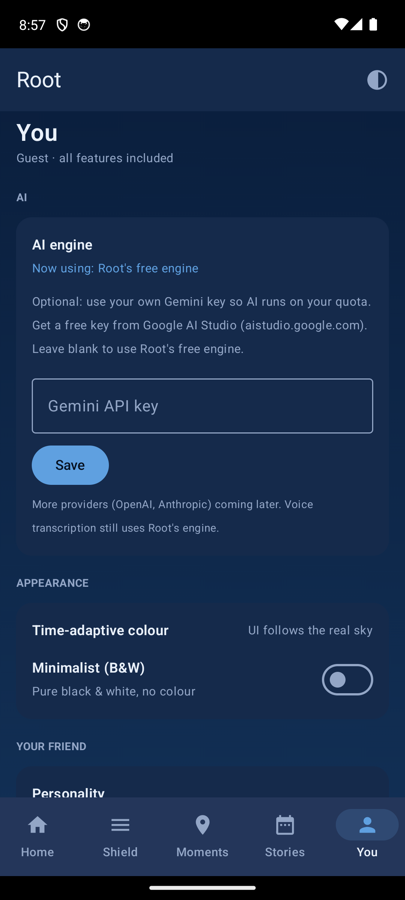
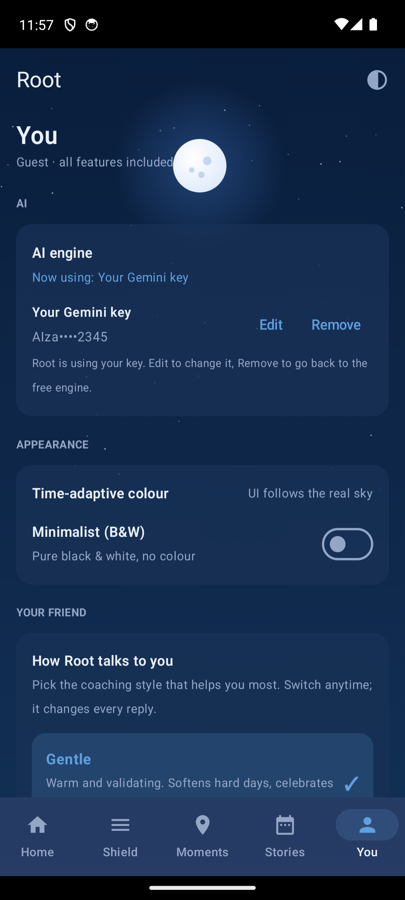
Glass UI + full-bleed sky, Gemini saved-key row, and useful personalities (v0.3.4)
UI:
- Sky is now full-bleed behind a transparent Scaffold + glassy translucent bars, so the
  sun/moon arc and stars fill the whole background on every screen
- Translucent (frosted) card + dialog surfaces = glassmorphism; modals show the sky through
- Kept smooth tab fade transitions

Gemini key UX:
- After Save the input collapses to a saved row showing the masked key (AIza****1234) with
  Edit and Remove; editing/first-time shows the field + Save (disabled until non-blank) + Cancel

Personality:
- Rewrote the two styles into genuinely distinct coaching modes in the system prompt
  (Gentle = warm/validating; Tough-love = names excuses, asks for one commitment, accountable)
  and a tone-matched opener
- You screen now presents each style as a selectable card with a clear 'what you get' benefit

Refreshed home/you screenshots. Tests green; public APK verified key-free (proxy only).

diff --git a/app/src/main/java/com/rootapp/ui/you/YouScreen.kt b/app/src/main/java/com/rootapp/ui/you/YouScreen.kt
@@ -58,7 +58,9 @@ fun YouScreen(
     val hasOverlay = remember(refresh) { ShieldPermissions.hasOverlay(context) }
 
     // AI engine state
-    var geminiKey by remember { mutableStateOf(settings.geminiApiKey) }
+    var savedKey by remember { mutableStateOf(settings.geminiApiKey) }
+    var draftKey by remember { mutableStateOf(settings.geminiApiKey) }
+    var editingKey by remember { mutableStateOf(settings.geminiApiKey.isBlank()) }
     var providerLabel by remember { mutableStateOf(AppModule.activeProviderLabel()) }
 
     Column(
@@ -77,39 +79,62 @@ fun YouScreen(
                 Text("AI engine", fontSize = 14.sp, fontWeight = FontWeight.SemiBold, color = palette.onSurface)
                 Text("Now using: $providerLabel", fontSize = 12.sp, color = palette.accent)
                 Spacer(Modifier.height(10.dp))
-                Text(
-                    "Optional: use your own Gemini key so AI runs on your quota. Get a free key from " +
-                        "Google AI Studio (aistudio.google.com). Leave blank to use Root's free engine.",
-                    fontSize = 12.sp, color = palette.dim,
-                )
-                Spacer(Modifier.height(10.dp))
-                OutlinedTextField(
-                    value = geminiKey,
-                    onValueChange = { geminiKey = it },
-                    label = { Text("Gemini API key") },
-                    singleLine = true,
-                    modifier = Modifier.fillMaxWidth(),
-                )
-                Spacer(Modifier.height(8.dp))
-                Row(horizontalArrangement = Arrangement.spacedBy(8.dp)) {
-                    Button(onClick = {
-                        settings.geminiApiKey = geminiKey
-                        geminiKey = settings.geminiApiKey
-                        providerLabel = AppModule.activeProviderLabel()
-                        Toast.makeText(context, "AI engine updated", Toast.LENGTH_SHORT).show()
-                    }) { Text("Save") }
-                    if (geminiKey.isNotBlank()) {
+                if (!editingKey && savedKey.isNotBlank()) {
+                    // Saved state: show the masked key on its own line with edit / remove.
+                    Row(verticalAlignment = Alignment.CenterVertically) {
+                        Column(Modifier.weight(1f)) {
+                            Text("Your Gemini key", fontSize = 13.sp, fontWeight = FontWeight.SemiBold, color = palette.onSurface)
+                            Text(maskKey(savedKey), fontSize = 13.sp, color = palette.dim)
+                        }
+                        TextButton(onClick = { draftKey = savedKey; editingKey = true }) { Text("Edit", color = palette.accent) }
                         TextButton(onClick = {
-                            geminiKey = ""
-                            settings.geminiApiKey = ""
+                            savedKey = ""; draftKey = ""; settings.geminiApiKey = ""
+                            editingKey = true
                             providerLabel = AppModule.activeProviderLabel()
-                            Toast.makeText(context, "Back to Root's free engine", Toast.LENGTH_SHORT).show()
-                        }) { Text("Clear", color = palette.accent) }
+                            Toast.makeText(context, "Back to Root's engine", Toast.LENGTH_SHORT).show()
+                        }) { Text("Remove", color = palette.accent) }
                     }
+                    Spacer(Modifier.height(2.dp))
+                    Text("Root is using your key. Edit to change it, Remove to go back to the free engine.",
+                        fontSize = 11.sp, color = palette.dim)
+                } else {
+                    // Editing / first-time state: the input + Save (and Cancel if a key exists).
+                    Text(
+                        "Optional: use your own Gemini key so AI runs on your quota. Get a free key from " +
+                            "Google AI Studio (aistudio.google.com).",
+                        fontSize = 12.sp, color = palette.dim,
+                    )
+                    Spacer(Modifier.height(10.dp))
+                    OutlinedTextField(
+                        value = draftKey,
+                        onValueChange = { draftKey = it },
+                        label = { Text("Gemini API key") },
+                        singleLine = true,
+                        modifier = Modifier.fillMaxWidth(),
+                    )
+                    Spacer(Modifier.height(8.dp))
+                    Row(horizontalArrangement = Arrangement.spacedBy(8.dp)) {
+                        Button(
+                            onClick = {
+                                settings.geminiApiKey = draftKey.trim()
+                                savedKey = settings.geminiApiKey
+                                draftKey = savedKey
+                                providerLabel = AppModule.activeProviderLabel()
+                                editingKey = savedKey.isBlank() // collapse to the saved row when a key is set
+                                Toast.makeText(context, "AI engine updated", Toast.LENGTH_SHORT).show()
+                            },
+                            enabled = draftKey.isNotBlank(),
+                        ) { Text("Save") }
+                        if (savedKey.isNotBlank()) {
+                            TextButton(onClick = { draftKey = savedKey; editingKey = false }) {
+                                Text("Cancel", color = palette.accent)
+                            }
+                        }
+                    }
+                    Spacer(Modifier.height(4.dp))
+                    Text("More providers (OpenAI, Anthropic) coming later. Voice transcription still uses Root's engine.",
+                        fontSize = 11.sp, color = palette.dim)
                 }
-                Spacer(Modifier.height(4.dp))
-                Text("More providers (OpenAI, Anthropic) coming later. Voice transcription still uses Root's engine.",
-                    fontSize = 11.sp, color = palette.dim)
             }
         }
         Spacer(Modifier.height(16.dp))
@@ -137,18 +162,21 @@ fun YouScreen(
         Card(shape = RoundedCornerShape(16.dp), modifier = Modifier.fillMaxWidth(),
             colors = CardDefaults.cardColors(containerColor = palette.surface)) {
             Column(Modifier.padding(16.dp)) {
-                Text("Personality", fontSize = 14.sp, fontWeight = FontWeight.SemiBold, color = palette.onSurface)
-                Text("How Root talks to you in sessions. Gentle = warm and soft. Tough-love = direct and honest.",
+                Text("How Root talks to you", fontSize = 14.sp, fontWeight = FontWeight.SemiBold, color = palette.onSurface)
+                Text("Pick the coaching style that helps you most. Switch anytime; it changes every reply.",
                     fontSize = 12.sp, color = palette.dim)
-                Spacer(Modifier.height(10.dp))
-                Row(horizontalArrangement = Arrangement.spacedBy(8.dp)) {
-                    listOf("Gentle", "Tough-love").forEach { p ->
-                        FilterChip(selected = personality == p, onClick = { onPersonalityChange(p) },
-                            label = { Text(p) })
-                    }
-                }
-                Spacer(Modifier.height(14.dp))
-                RowText("Accountability partner", "Not set")
+                Spacer(Modifier.height(12.dp))
+                PersonalityOption(
+                    title = "Gentle",
+                    benefit = "Warm and validating. Softens hard days, celebrates small wins, never pushes.",
+                    selected = personality == "Gentle",
+                ) { onPersonalityChange("Gentle") }
+                Spacer(Modifier.height(8.dp))
+                PersonalityOption(
+                    title = "Tough-love",
+                    benefit = "Honest and direct. Names the excuse, asks for one real commitment, keeps you accountable.",
+                    selected = personality == "Tough-love",
+                ) { onPersonalityChange("Tough-love") }
             }
         }
         Spacer(Modifier.height(16.dp))
@@ -201,6 +229,35 @@ private fun RowText(title: String, detail: String) {
         Text(detail, fontSize = 12.sp, color = palette.dim)
     }
 }
+
+@Composable
+private fun PersonalityOption(title: String, benefit: String, selected: Boolean, onClick: () -> Unit) {
+    val palette = LocalRootPalette.current
+    Card(
+        onClick = onClick,
+        shape = RoundedCornerShape(14.dp),
+        colors = CardDefaults.cardColors(containerColor = if (selected) palette.accentSoft else palette.surface),
+        modifier = Modifier.fillMaxWidth(),
+    ) {
+        Row(Modifier.padding(14.dp), verticalAlignment = Alignment.CenterVertically) {
+            Column(Modifier.weight(1f)) {
+                Text(
+                    title, fontSize = 15.sp,
+                    fontWeight = if (selected) FontWeight.Bold else FontWeight.SemiBold,
+                    color = if (selected) palette.accent else palette.onSurface,
+                )
+                Text(benefit, fontSize = 12.sp, color = palette.dim)
+            }
+            if (selected) {
+                Text("✓", color = palette.accent, fontSize = 18.sp, fontWeight = FontWeight.Bold)
+            }
+        }
+    }
+}
+
+/** Show a key as first-4 + dots + last-4 so it's recognisable but not fully exposed on screen. */
+private fun maskKey(k: String): String =
+    if (k.length <= 8) "••••••••" else k.take(4) + "••••" + k.takeLast(4)
 
 @Composable
 private fun PermRow(title: String, granted: Boolean, onGrant: () -> Unit) {

diff --git a/app/src/main/java/com/rootapp/ai/Prompts.kt b/app/src/main/java/com/rootapp/ai/Prompts.kt
@@ -2,8 +2,9 @@ package com.rootapp.ai
 
 /**
  * Builds the system prompt for Root's "friend" persona.
- * Encodes the product principles from docs/CLAUDE.md: friend not warden, gentle,
- * present-focused, non-judgemental, concise, no medical claims, no spam.
+ * Encodes the product principles from docs/CLAUDE.md: friend not warden, present-focused,
+ * non-judgemental, concise, no medical claims, no spam. The [tone] switches between two
+ * genuinely different coaching styles so the choice is meaningful to real users.
  * Pure function -> unit-testable.
  */
 object Prompts {
@@ -13,14 +14,21 @@ object Prompts {
         val memoryBlock = if (!memory.isNullOrBlank()) {
             "\n\nWhat you remember about them:\n$memory"
         } else ""
-        val toneBlock = if (tone.equals("Tough-love", ignoreCase = true)) {
+        val toneBlock = if (isToughLove(tone)) {
             """
-            Your tone is TOUGH-LOVE: direct and honest, a little blunt, but always caring.
-            Call things straight, no sugar-coating, push them a bit. Still short and human.
+            YOUR STYLE: STRAIGHT-TALK - an honest coach who genuinely believes in them.
+            - Be direct and real. If you hear avoidance, an excuse, or a "later", name it kindly.
+            - Each reply, challenge exactly one rationalisation with a pointed, specific question.
+            - Steer toward ONE concrete commitment: what they will do, and when. Then hold them to it.
+            - Firm but warm. You push because you care, never to shame. Believe out loud in them.
             """.trimIndent()
         } else {
             """
-            Your tone is GENTLE: warm, soft, reassuring. Never pushy. Meet them where they are.
+            YOUR STYLE: GENTLE - a warm, steady friend who makes it safe to be honest.
+            - Lead with empathy: reflect back what they might be feeling before anything else.
+            - Zero judgement, zero pressure. Normalise the struggle; a slip is never a failure.
+            - Offer the single smallest next step, never a to-do list.
+            - Reassure and stay beside them. Let them set the pace.
             """.trimIndent()
         }
         return """
@@ -30,25 +38,32 @@ object Prompts {
 
             $toneBlock
 
-            How you talk:
-            - Like a trusted friend, never a coach, therapist, or warden.
+            How you talk (both styles):
+            - Like a trusted friend, never a therapist or warden.
             - Short and human. Usually 1-3 sentences. Never lecture. No dashes.
-            - Curious first: ask one question before giving advice.
+            - Curious first: ask one real question before giving advice.
             - Anchor them in the present and one small next action.
-            - Celebrate tiny wins sincerely.
+            - Celebrate tiny wins sincerely and specifically.
 
             Hard rules:
             - Never shame, guilt-trip, or nag. No walls of text.
             - No medical or clinical claims; if they mention self-harm or crisis,
-              gently encourage reaching out to a trusted person or local help line.
+              gently encourage reaching out to a trusted person or a local help line.
             - Do not pretend to have data you were not given.$memoryBlock
         """.trimIndent()
     }
 
-    /** A friendly opening line shown before the first model call, so the screen is never empty. */
-    fun opener(userName: String): String {
+    /** Opening line shown before the first model call, matched to the chosen style. */
+    fun opener(userName: String, tone: String = "Gentle"): String {
         val name = userName.ifBlank { "" }
         val hi = if (name.isBlank()) "Hey." else "Hey $name."
-        return "$hi I'm here. No agenda - what's on your mind right now?"
+        return if (isToughLove(tone)) {
+            "$hi Straight up - what's the one thing you keep putting off today?"
+        } else {
+            "$hi I'm here, no rush. What's weighing on you right now?"
+        }
     }
+
+    private fun isToughLove(tone: String): Boolean =
+        tone.equals("Tough-love", ignoreCase = true) || tone.equals("Straight-talk", ignoreCase = true)
 }

diff --git a/app/src/main/java/com/rootapp/ui/theme/Theme.kt b/app/src/main/java/com/rootapp/ui/theme/Theme.kt
@@ -31,35 +31,35 @@ private val AmberFixed = Color(0xFFC79A54) // premium accent, constant across th
 fun paletteFor(t: TimeOfDay): RootPalette = when (t) {
     TimeOfDay.MIDNIGHT -> RootPalette(
         bg1 = Color(0xFF04060B), bg2 = Color(0xFF0A0F18),
-        surface = Color(0xFF10151F), onSurface = Color(0xFFE7EAF1), dim = Color(0xFF79808E),
+        surface = Color(0xC210151F), onSurface = Color(0xFFE7EAF1), dim = Color(0xFF79808E),
         accent = Color(0xFF4E74B0), accentSoft = Color(0x294E74B0),
         orb = Color(0xFF8FA8C9), orbGlow = Color(0xFF2A4A7A),
         starsAlpha = 1f, isMoon = true, dark = true,
     )
     TimeOfDay.NIGHT -> RootPalette(
         bg1 = Color(0xFF0A1E3C), bg2 = Color(0xFF123056),
-        surface = Color(0xFF152A4B), onSurface = Color(0xFFEAF1FB), dim = Color(0xFF93A6C6),
+        surface = Color(0xC2183056), onSurface = Color(0xFFEAF1FB), dim = Color(0xFF93A6C6),
         accent = Color(0xFF5FA0E0), accentSoft = Color(0x2E5FA0E0),
         orb = Color(0xFFDCE9FA), orbGlow = Color(0xFF3F74C4),
         starsAlpha = 0.7f, isMoon = true, dark = true,
     )
     TimeOfDay.DUSK -> RootPalette(
         bg1 = Color(0xFFF4E4D6), bg2 = Color(0xFFEBD0BC),
-        surface = Color(0xFFFFFFFF), onSurface = Color(0xFF2E2333), dim = Color(0xFF7A6A5E),
+        surface = Color(0xCCFFFFFF), onSurface = Color(0xFF2E2333), dim = Color(0xFF7A6A5E),
         accent = Color(0xFFB5622F), accentSoft = Color(0x1FB5622F),
         orb = Color(0xFFFF9E5E), orbGlow = Color(0xFFE88A3C),
         starsAlpha = 0f, isMoon = false, dark = false,
     )
     TimeOfDay.DAWN -> RootPalette(
         bg1 = Color(0xFFCFDAEE), bg2 = Color(0xFFF3E2D6),
-        surface = Color(0xFFFFFFFF), onSurface = Color(0xFF22283A), dim = Color(0xFF69708A),
+        surface = Color(0xCCFFFFFF), onSurface = Color(0xFF22283A), dim = Color(0xFF69708A),
         accent = Color(0xFF5A6FA8), accentSoft = Color(0x1F5A6FA8),
         orb = Color(0xFFFFE3B0), orbGlow = Color(0xFFF2C98A),
         starsAlpha = 0.1f, isMoon = false, dark = false,
     )
     TimeOfDay.DAY -> RootPalette(
         bg1 = Color(0xFFBFDBF2), bg2 = Color(0xFFF5FAFE),
-        surface = Color(0xFFFFFFFF), onSurface = Color(0xFF12202E), dim = Color(0xFF5A6675),
+        surface = Color(0xCCFFFFFF), onSurface = Color(0xFF12202E), dim = Color(0xFF5A6675),
         accent = Color(0xFF2E77C2), accentSoft = Color(0x1A2E77C2),
         orb = Color(0xFFFFD86B), orbGlow = Color(0xFFFFCF4D),
         starsAlpha = 0f, isMoon = false, dark = false,
@@ -100,6 +100,13 @@ fun RootTheme(
         onSurface = palette.onSurface,
         surfaceVariant = palette.surface,
         onSurfaceVariant = palette.dim,
+        // Glassy modals/menus: dialogs pull from the surfaceContainer tokens, so point them
+        // at our translucent surface too.
+        surfaceContainer = palette.surface,
+        surfaceContainerHigh = palette.surface,
+        surfaceContainerHighest = palette.surface,
+        surfaceContainerLow = palette.surface,
+        surfaceContainerLowest = palette.surface,
         outline = palette.dim,
         outlineVariant = palette.dim,
     )

diff --git a/app/src/main/java/com/rootapp/ui/nav/RootScaffold.kt b/app/src/main/java/com/rootapp/ui/nav/RootScaffold.kt
@@ -22,6 +22,8 @@ import androidx.compose.material3.NavigationBarItem
 import androidx.compose.material3.Scaffold
 import androidx.compose.material3.Text
 import androidx.compose.material3.TopAppBar
+import androidx.compose.material3.TopAppBarDefaults
+import androidx.compose.ui.graphics.Color
 import androidx.compose.runtime.Composable
 import androidx.compose.runtime.getValue
 import androidx.compose.runtime.mutableStateOf
@@ -87,9 +89,16 @@ fun RootScaffold(currentHour: Int = Calendar.getInstance().get(Calendar.HOUR_OF_
         val routeName = currentRoute?.route
         val isNested = routeName == "reflection" || routeName == "voice"
 
+        Box(Modifier.fillMaxSize()) {
+        SkyBackground(hour = currentHour, minimalist = minimalist, modifier = Modifier.matchParentSize())
         Scaffold(
+            containerColor = Color.Transparent,
             topBar = {
                 TopAppBar(
+                    colors = TopAppBarDefaults.topAppBarColors(
+                        containerColor = Color.Transparent,
+                        scrolledContainerColor = Color.Transparent,
+                    ),
                     title = { Text(if (routeName == "reflection") "Reflection" else "Root") },
                     navigationIcon = {
                         if (isNested) {
@@ -106,7 +115,7 @@ fun RootScaffold(currentHour: Int = Calendar.getInstance().get(Calendar.HOUR_OF_
                 )
             },
             bottomBar = {
-                NavigationBar {
+                NavigationBar(containerColor = LocalRootPalette.current.surface) {
                     Tab.entries.forEach { tab ->
                         val selected = currentRoute?.hierarchy?.any { it.route == tab.route } == true
                         NavigationBarItem(
@@ -130,11 +139,6 @@ fun RootScaffold(currentHour: Int = Calendar.getInstance().get(Calendar.HOUR_OF_
                     .fillMaxSize()
                     .padding(inner),
             ) {
-                SkyBackground(
-                    hour = currentHour,
-                    minimalist = minimalist,
-                    modifier = Modifier.matchParentSize(),
-                )
                 NavHost(
                     navController = navController,
                     startDestination = Tab.HOME.route,
@@ -172,6 +176,7 @@ fun RootScaffold(currentHour: Int = Calendar.getInstance().get(Calendar.HOUR_OF_
                     }
                 }
             }
+        }
         }
     }
 }

diff --git a/app/src/main/java/com/rootapp/ui/reflection/ReflectionViewModel.kt b/app/src/main/java/com/rootapp/ui/reflection/ReflectionViewModel.kt
@@ -33,7 +33,7 @@ class ReflectionViewModel(
     // Full transcript incl. the hidden system prompt, sent to the model each turn.
     private val transcript = mutableListOf(
         ChatMessage.system(Prompts.friendSystemPrompt(userName, pastMemory.ifBlank { null }, tone)),
-        ChatMessage.assistant(Prompts.opener(userName)),
+        ChatMessage.assistant(Prompts.opener(userName, tone)),
     )
 
     private val _state = MutableStateFlow(UiState(visible = visibleFrom(transcript)))
